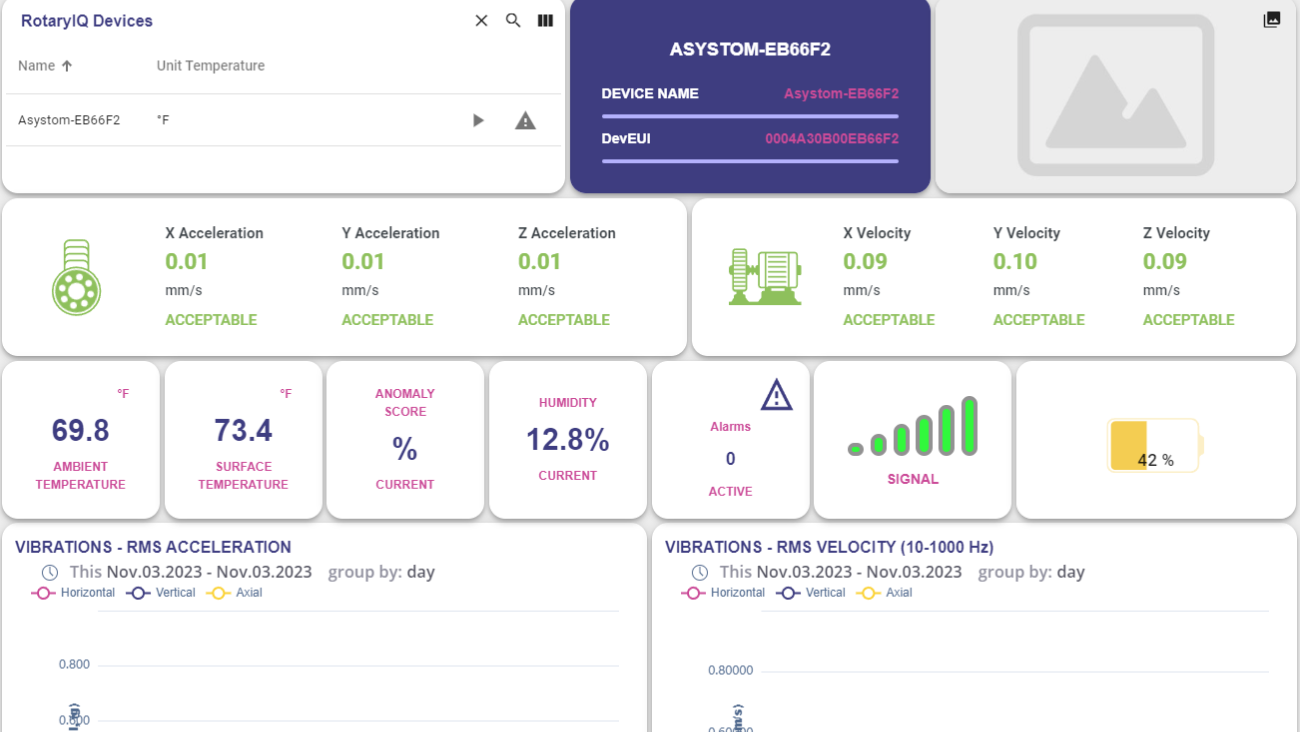
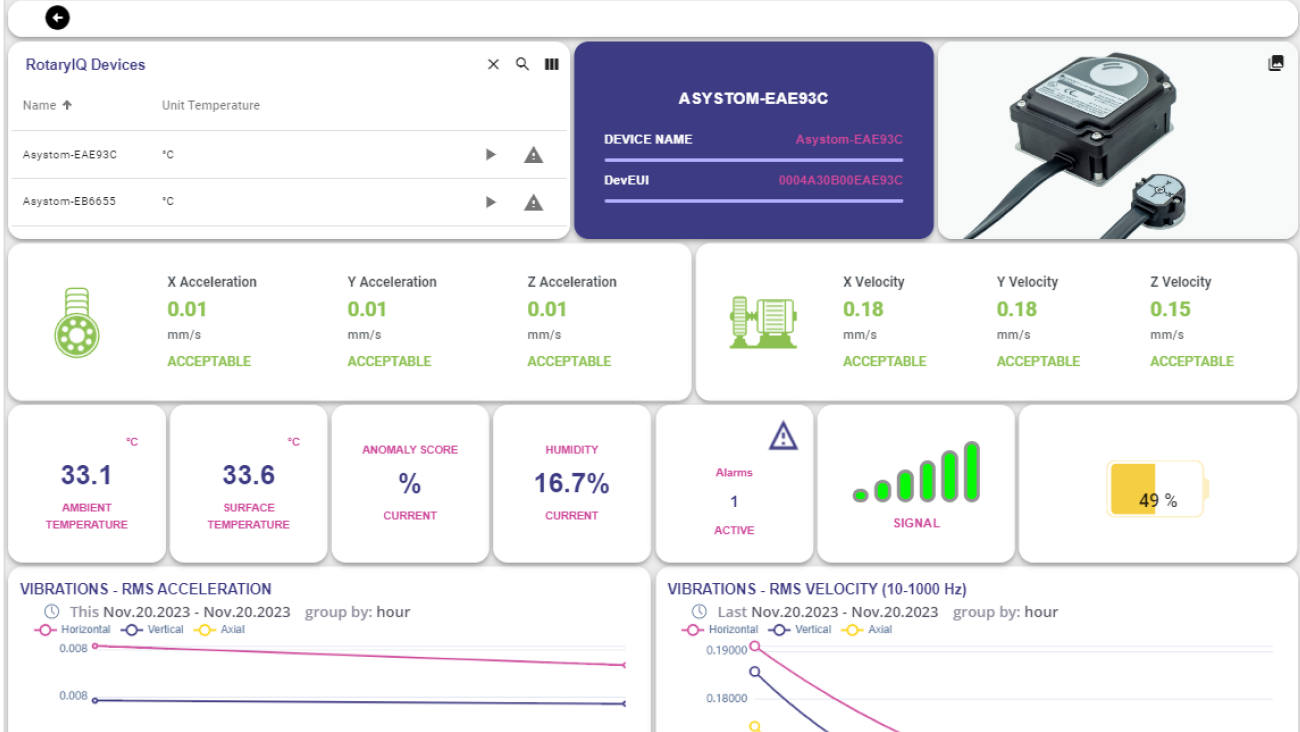
1

diff --git a/frame-610.css b/frame-610.css
@@ -65,7 +65,7 @@
   position: relative;
   line-height: 30px;
 }
-.frame-child16 {
+.frame-child13 {
   position: relative;
   width: 323px;
   height: 242px;
@@ -79,7 +79,7 @@
   justify-content: flex-start;
   gap: var(--gap-xl);
 }
-.frame-child18 {
+.frame-child15 {
   position: relative;
   width: 323px;
   height: 242px;
@@ -107,7 +107,7 @@
   display: inline-block;
   width: 859px;
 }
-.frame-child19 {
+.frame-child16 {
   position: relative;
   width: 323px;
   height: 242px;
@@ -182,7 +182,7 @@
   align-items: center;
   justify-content: center;
 }
-.frame-child27 {
+.frame-child24 {
   position: relative;
   width: 650px;
   height: 366px;
@@ -204,7 +204,7 @@
   position: relative;
   line-height: 35px;
 }
-.image-4-icon1 {
+.image-4-icon {
   position: relative;
   width: 385px;
   height: 219.4px;
@@ -322,7 +322,7 @@
     font-size: var(--font-size-xs);
     line-height: 15px;
   }
-  .frame-child16 {
+  .frame-child13 {
     align-self: stretch;
     width: auto;
   }
@@ -380,7 +380,7 @@
     font-size: var(--font-size-xs);
     line-height: 15px;
   }
-  .image-4-icon1 {
+  .image-4-icon {
     width: 323px;
   }
   .frame-wrapper12 {
@@ -422,7 +422,7 @@
   .in-the-top-container1 {
     font-size: var(--font-size-xs);
   }
-  .frame-child16 {
+  .frame-child13 {
     width: 323px;
   }
   .in-the-top-section-of-the-dash-parent,
@@ -469,11 +469,11 @@
   }
 }
 @media screen and (max-width: 800px) {
-  .frame-child27 {
+  .frame-child24 {
     width: 323px;
     height: 182px;
   }
-  .image-4-icon1 {
+  .image-4-icon {
     width: 323px;
   }
 }

diff --git a/index.html b/index.html
@@ -25,7 +25,7 @@
           </div>
         </div>
         <div class="frame-wrapper5">
-          <img class="frame-child11" alt="" src="./public/frame-64131@2x.png" />
+          <img class="frame-child8" alt="" src="./public/frame-64131@2x.png" />
         </div>
         <div class="frame-parent10">
           <div class="map-panel-wrapper">
@@ -87,11 +87,7 @@
             </div>
           </div>
           <div class="frame-wrapper6">
-            <img
-              class="frame-child11"
-              alt=""
-              src="./public/frame-6415@2x.png"
-            />
+            <img class="frame-child8" alt="" src="./public/frame-6415@2x.png" />
           </div>
           <div class="frame-wrapper7">
             <div class="when-an-asset-area-or-device-parent">
@@ -99,7 +95,7 @@
                 You can access the alarms for the devices by clicking on the
                 alarm button on the top-left section.
               </div>
-              <img class="image-4-icon" alt="" src="./public/image-4@2x.png" />
+              <img class="image-9-icon" alt="" src="./public/image-9@2x.png" />
             </div>
           </div>
         </div>

diff --git a/frame-651.css b/frame-651.css
@@ -121,6 +121,14 @@
   font-size: var(--font-size-5xl);
   color: var(--color-mediumvioletred);
 }
+.you-can-start-creating-a-new-d-parent {
+  align-self: stretch;
+  display: flex;
+  flex-direction: row;
+  align-items: center;
+  justify-content: flex-start;
+  gap: var(--gap-xl);
+}
 .frame-icon {
   position: relative;
   width: 323px;
@@ -130,19 +138,12 @@
   object-fit: cover;
 }
 .frame-group,
-.frame-parent2,
-.you-can-start-creating-a-new-d-parent {
+.frame-parent2 {
   align-self: stretch;
   display: flex;
-  flex-direction: row;
-  align-items: center;
-  justify-content: flex-start;
-  gap: var(--gap-xl);
-}
-.frame-group,
-.frame-parent2 {
   flex-direction: column;
   align-items: flex-start;
+  justify-content: flex-start;
   gap: var(--gap-27xl);
 }
 .frame-group {
@@ -155,6 +156,12 @@
   font-weight: 600;
   display: inline-block;
   width: 859px;
+}
+.image-6-icon {
+  position: relative;
+  width: 360.5px;
+  height: 242px;
+  object-fit: cover;
 }
 .image-1-parent,
 .to-assign-a-device-click-on-t-parent {

diff --git a/index.css b/index.css
@@ -31,7 +31,7 @@
   text-align: center;
   font-size: var(--font-size-9xl);
 }
-.frame-child11 {
+.frame-child8 {
   position: relative;
   width: 650px;
   height: 366px;
@@ -180,10 +180,10 @@
 .frame-wrapper6 {
   padding: 0 var(--padding-78xl);
 }
-.image-4-icon {
+.image-9-icon {
   position: relative;
   width: 385px;
-  height: 219.4px;
+  height: 220px;
   object-fit: cover;
 }
 .frame-wrapper7 {
@@ -345,9 +345,6 @@
     padding-right: 0;
     box-sizing: border-box;
   }
-  .image-4-icon {
-    width: 323px;
-  }
   .frame-parent13,
   .frame-wrapper7 {
     align-items: flex-start;
@@ -430,7 +427,7 @@
     font-size: var(--font-size-base);
     line-height: 25px;
   }
-  .frame-child11 {
+  .frame-child8 {
     width: 323px;
     height: 182px;
   }
@@ -440,6 +437,10 @@
   .markers-in-this {
     font-size: var(--font-size-base);
     line-height: 25px;
+  }
+  .image-9-icon {
+    width: 323px;
+    height: 182px;
   }
 }
 @media screen and (min-width: 3000px) {

diff --git a/frame-626.css b/frame-626.css
@@ -1,0 +1,26 @@
+.image-2-icon {
+  position: relative;
+  width: 224px;
+  height: 112px;
+  object-fit: cover;
+}
+.image-2-parent {
+  position: relative;
+  background-color: var(--color-white);
+  width: 100%;
+  height: 523px;
+  overflow: hidden;
+  display: flex;
+  flex-direction: column;
+  align-items: center;
+  justify-content: flex-start;
+  padding: var(--padding-52xl) var(--padding-xl);
+  box-sizing: border-box;
+}
+@media screen and (max-width: 425px) {
+  .image-2-parent {
+    padding-left: var(--padding-1181xl);
+    padding-right: var(--padding-1181xl);
+    box-sizing: border-box;
+  }
+}
